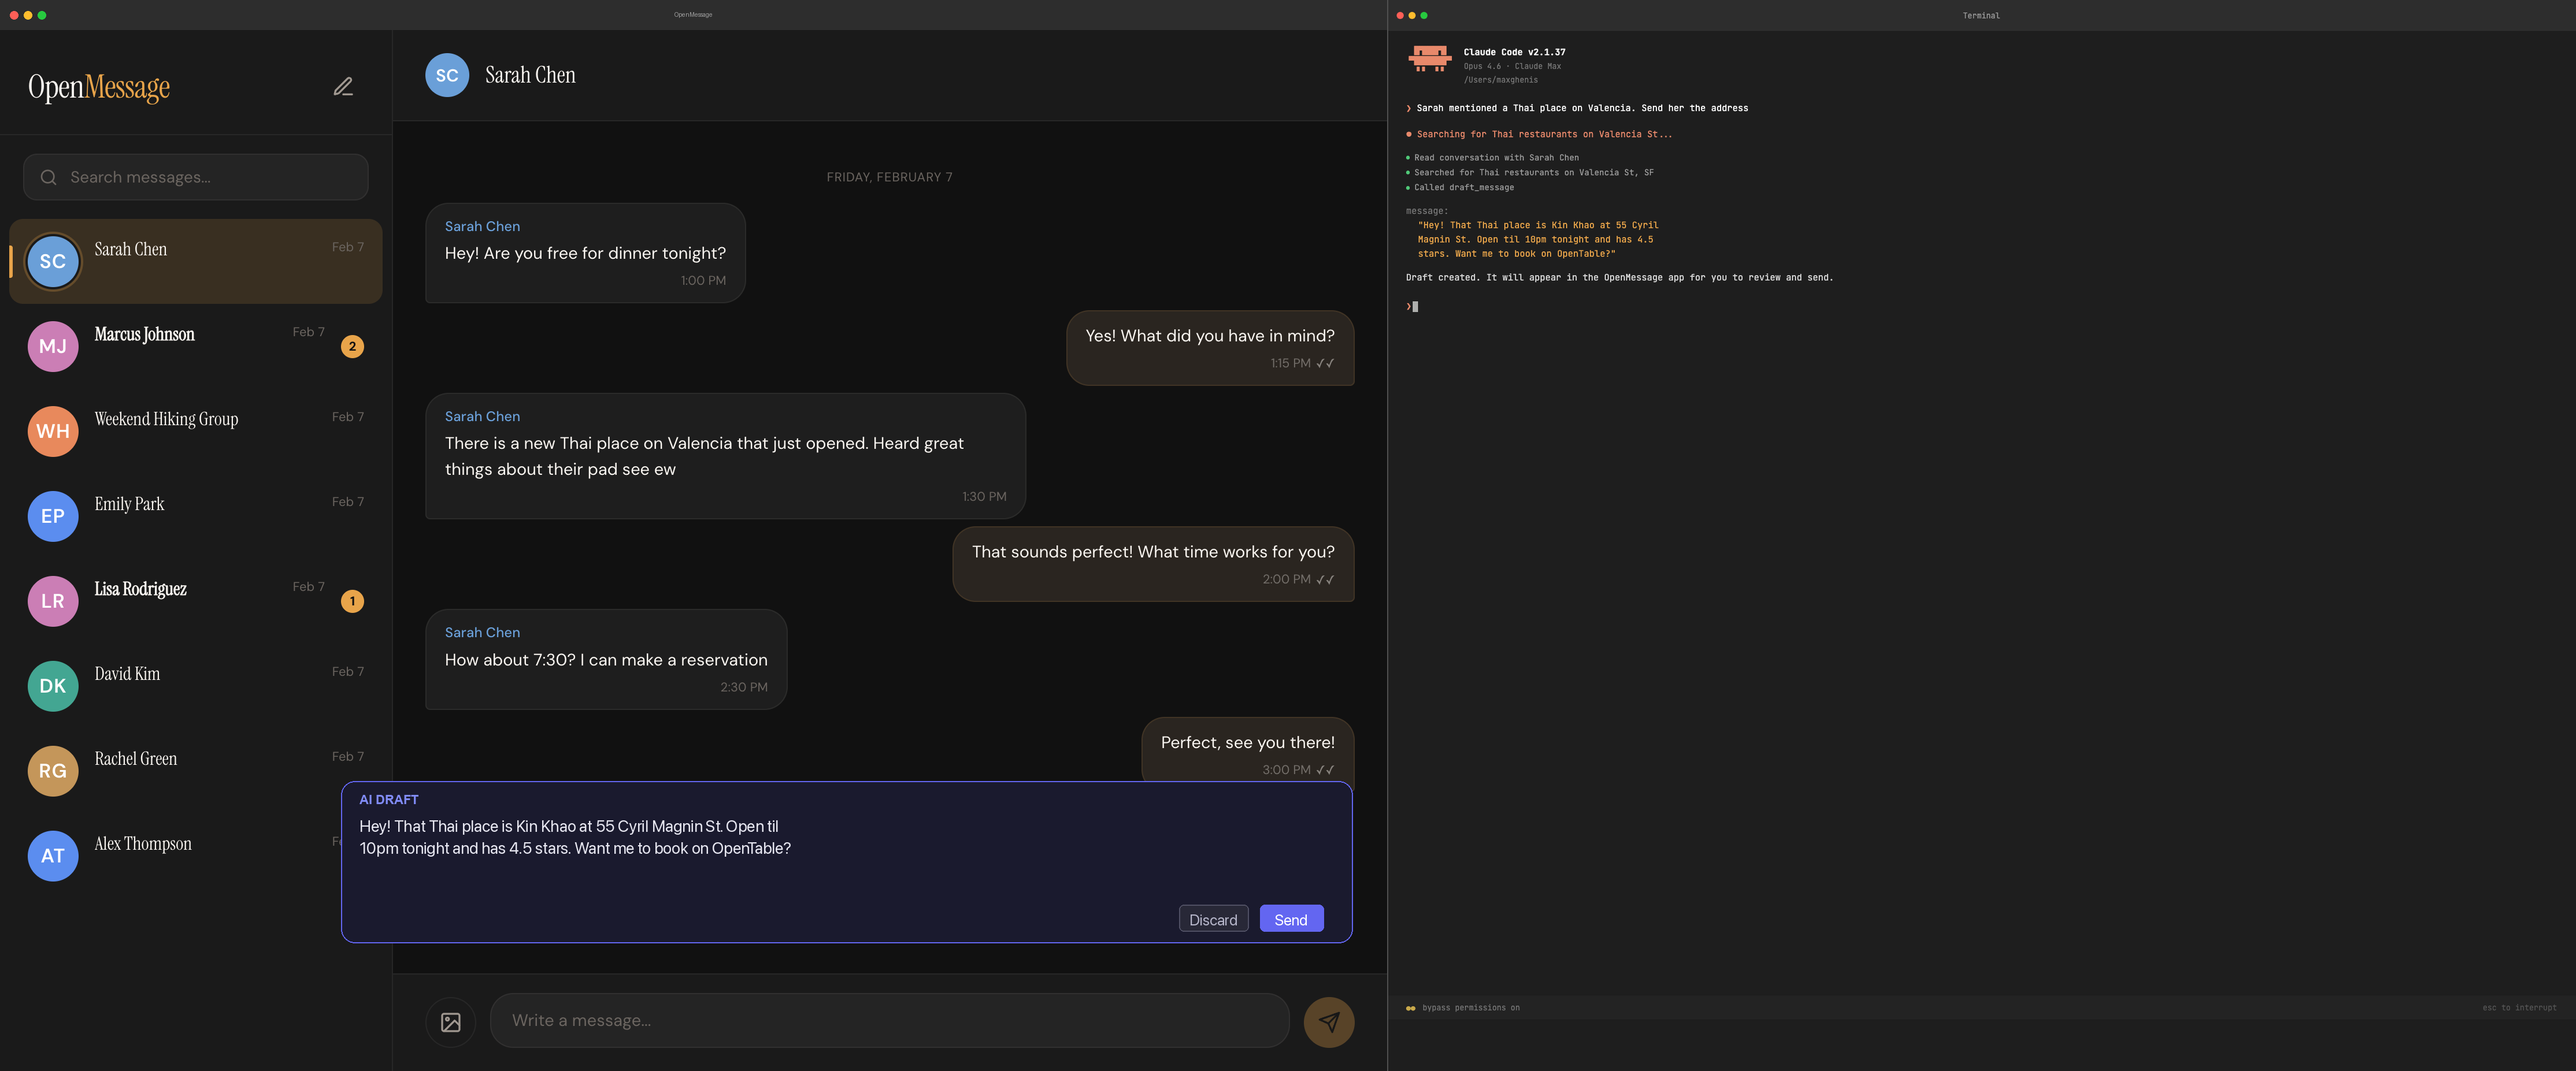
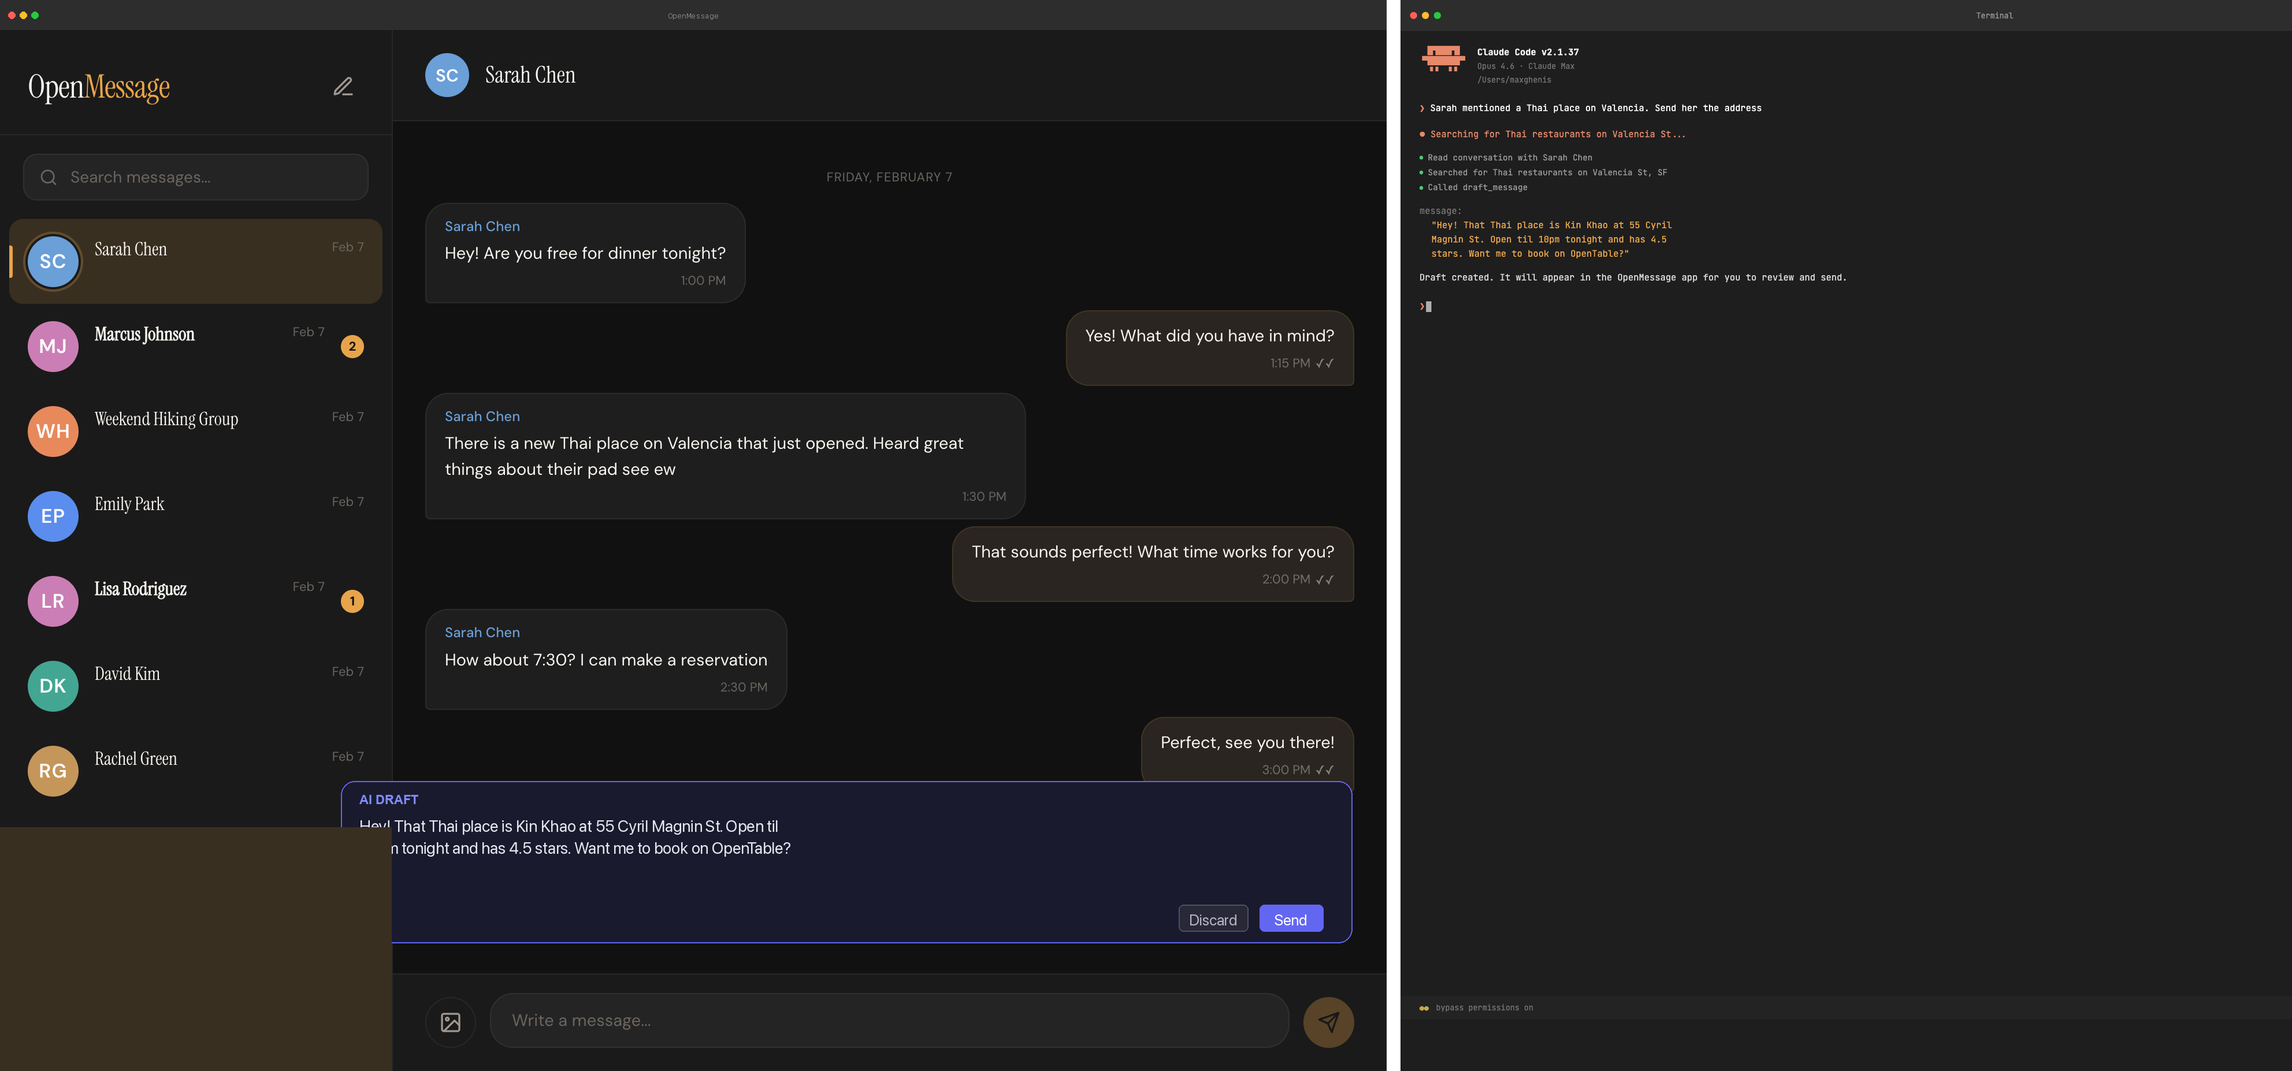
Fix hero image: bigger preview, narrower terminal, no AI draft bleed
- Increase .preview max-width from 1100px to 1400px for larger hero
- Narrow terminal side from 2000px to 1500px for better app/terminal ratio
- Fix AI draft banner bleeding into contacts panel by masking overlap
- Contacts list now cleanly ends at Rachel Green

diff --git a/site/index.html b/site/index.html
@@ -235,7 +235,7 @@ h1 em {
 .preview {
   margin-top: 80px;
   width: 100%;
-  max-width: 1100px;
+  max-width: 1400px;
   animation: fadeUp 0.8s ease-out 0.4s both;
 }
 
